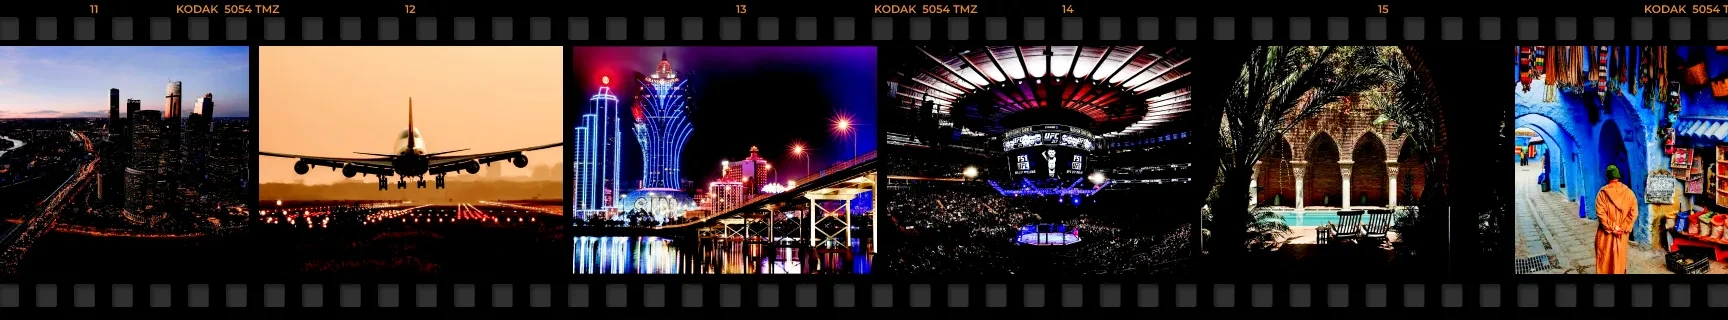
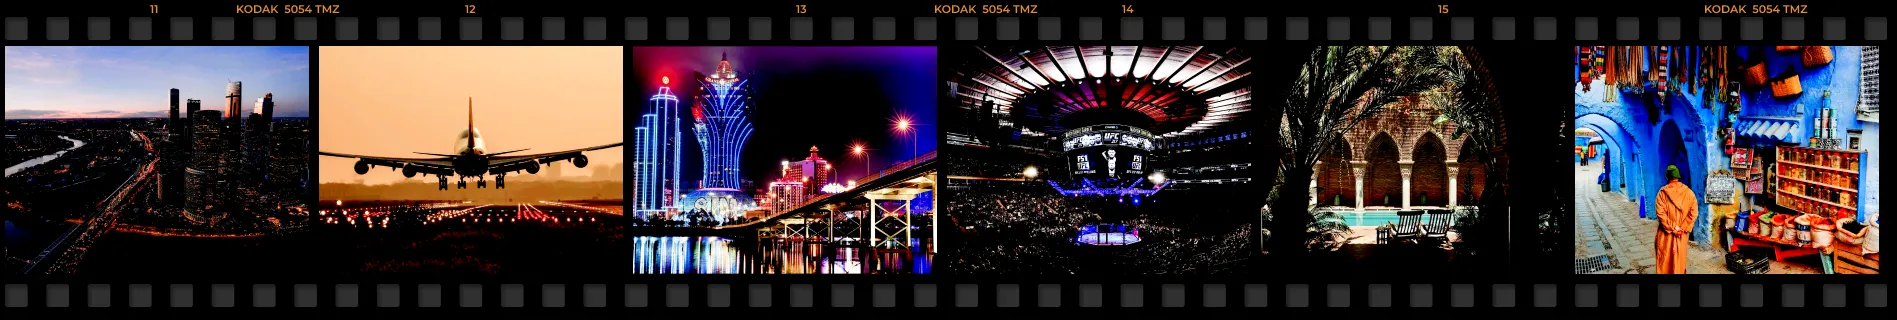
lenta rework

diff --git a/src/style.css b/src/style.css
@@ -12,8 +12,6 @@
     margin: 0;
     font-family: 'Montserrat', sans-serif;
     color: var(--color-black);
-    -webkit-appearance: none;
-    appearance: none;
 }
 
 .w100 {
@@ -462,10 +460,10 @@
 }
 
 .lenta-container {
-    margin-top: -50px;
-    margin-bottom: -50px;
+    margin-top: 100px;
+    margin-bottom: 90px;
     position: relative;
-    height: 375px;
+    height: 180px;
 }
 
 .lenta-img {
@@ -655,7 +653,7 @@
     .bg-company {
         background-position: -100% 92%;
         background-size: 68%;
-        height: 610px;
+        height: 530px;
     }
 
     #company {
@@ -664,7 +662,7 @@
     }
 
     .lenta-container {
-        height: 315px;
+        height: 175px;
     }
 
     .lenta-img {
@@ -678,6 +676,11 @@
 
     #fact {
         padding-top: 0px;
+    }
+
+    .bg-tokenization {
+        padding-top: 30px;
+        padding-bottom: 0px;
     }
 }
 
@@ -740,12 +743,16 @@
     }
 
     .lenta-container {
-        height: 320px;
+        margin-top: 50px;
+        margin-bottom: 50px;
+        height: 204px;
+        width: 1065px;
     }
 
     .lenta-img {
         height: 180px;
     }
+
 }
 @media screen and (max-width: 768px) {
     .main-container {
@@ -907,8 +914,10 @@
     }
 
     .lenta-container {
-        margin-top: -10px;
-        margin-bottom: -10px;
+        margin-top: 20px;
+        margin-bottom: 20px;
+        width: 890px;
+        height: 220px;
     }
     
     .mobile-mw-250 {
@@ -968,10 +977,6 @@
 
     .mobile-p-r {
         position: relative;
-    }
-
-    .lenta-container {
-        height: 220px;
     }
 
     .lenta-img {

diff --git a/index.html b/index.html
@@ -174,7 +174,7 @@
         </div>
 
         <!-- картинка лента1 -->
-        <div class="df jc-c ai-c lenta-container r-4">
+        <div class="lenta-container r-4">
             <img class="lenta-img lenta-first" src="src/img/lenta1.webp" alt="lenta1.webp">
             <img class="lenta-img lenta-second" src="src/img/lenta1.webp" alt="lenta1.webp">
         </div>
